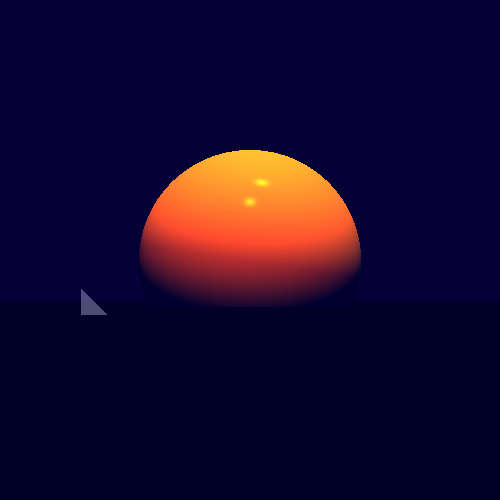
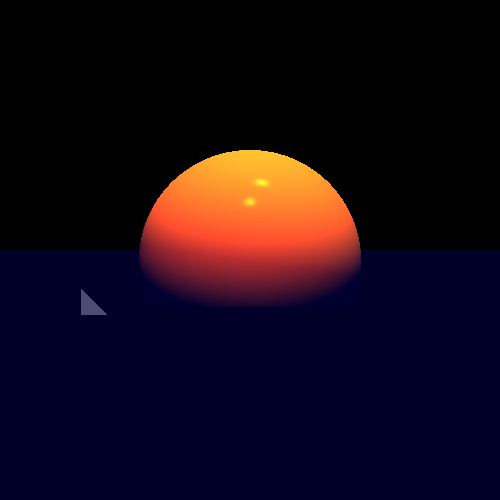
sunset

diff --git a/src/unittests/miniProject1.java b/src/unittests/miniProject1.java
@@ -18,7 +18,11 @@ import scene.Scene;
 import static java.awt.Color.*;
 
 public class miniProject1 {
-
+    /**
+     * this test is part of seventh level.
+     * The stage focuses on our attempt to create a scene from ourselves
+     * We tried to create a sunset scene
+     */
     @Test
     public void test()
     {
@@ -28,65 +32,34 @@ public class miniProject1 {
                 .setVPSize(150, 150) //
                 .setVPDistance(1000);
 
-
-        //creating the sunset
-        //SUN
+        //creating a sunset scene
+        //adding a sphere= SUN
         scene1.geometries.add(
-        new Sphere(new Point(0,-4,-200),40).setEmission(new Color(0,0,47)).setMaterial(new Material().setKd(0.5).setKs(0.5).setnShininess(300).setKt(new Double3(0)).setKr(new Double3(0))));
-
-        //SKY
-        Plane plane2 = new Plane(new Point(0, 0, -300), new Vector(0, 0, 1));
-        Plane plane=new Plane(new Point(0, -20, 0), new Vector(0, -40, 0));
-        scene1.geometries.add(plane.setEmission(new Color(0,0,40)));
-        //.setMaterial(new Material() .setKd(1.5).setKs(1.5).setnShininess(300).setKt(new Double3(0)).setKr(new Double3(0))));
-        //SEA
-       scene1.geometries.add(plane2.setEmission( new Color(5,0,54)).setMaterial(new Material().setKt(new Double3(0)) .setKr( new Double3(0))));
-        //SHARK
-        Triangle shark=new Triangle(new Point(-52, -32, -28), new Point(-32, -32, -28), new Point(-52, -12, -28));
-        scene1.geometries.add(shark.setEmission( new Color(76,76,76)).setMaterial(new Material().setKt(new Double3(1)) .setKr( new Double3(0))));
-
+                new Sphere(new Point(0,-4,-200),40)//SUN
+                        .setEmission(new Color(0,0,47))
+                        .setMaterial(new Material().setKd(0.5).setKs(0.5).setnShininess(300).setKt(new Double3(0)).setKr(new Double3(0))),
+                new Plane(new Point(0, -20, 0), new Vector(0, -40, 0))//SEA
+                        .setEmission(new Color(0,0,40)),
+                new Plane(new Point(0, 0, -300), new Vector(0, 0, 1))//SKY
+                        .setEmission( new Color(5,0,54))
+                        .setMaterial(new Material().setKt(new Double3(0)) .setKr( new Double3(0))),
+                new Triangle(new Point(-52, -32, -28), new Point(-32, -32, -28), new Point(-52, -12, -28))//SHARK
+                        .setEmission( new Color(76,76,76))
+                        .setMaterial(new Material().setKt(new Double3(1)) .setKr( new Double3(0)))
+                );
 
         //light additions
         scene1.getLights().add(new DirectionalLight(new Color(300,200,0), new Vector(-0.3,-2,0)));
-        //scene1.getLights().add(new DirectionalLight(new Color(400,200,250), new Vector(0,-2,0)));
         scene1.getLights().add(new DirectionalLight(new Color(800,200,0), new Vector(0,-2,-1)));
         scene1.getLights().add(new SpotLight(new Color(800, 200, 0), new Point(0, 40, 100), new Vector(0, 1, 4))
                 .setkL(0.0004).setkQ(0.0000006));
 
         //creating the picture
-        ImageWriter imageWriter = new ImageWriter("trytopro", 500, 500);
+        ImageWriter imageWriter = new ImageWriter("sunsetTest", 500, 500);
         camera1.setImageWriter(imageWriter) //
                 .setRayTracer(new RayTracerBasic(scene1)) //
                 .renderImage(); //
         camera1.writeToImage(); //
     }
 }
-
-        //        Scene scene1 = new Scene.SceneBuilder("Test scene").build();
-//        Camera camera1 = new Camera(new Point(0, 0, 1000), new Vector(0, 0, -1), new Vector(0, 1, 0)) //
-//                .setVPSize(150, 150) //
-//                .setVPDistance(1000);
-//
-//
-//        //creating the sunset
-//        //SUN
-//        scene1.geometries.add(
-//        new Sphere(new Point(0,0,-250),40).setEmission(new Color(BLACK)).setMaterial(new Material().setKd(0.5).setKs(0.5).setnShininess(300).setKt(new Double3(0.5)).setKr(new Double3(0))));
-//
-//        //SKY
-//        Plane plane = new Plane(new Point(0, 0, -300), new Vector(0, 0, 1));
-//        scene1.geometries.add(plane.setEmission(new Color(163,62,0)).setMaterial(new Material() .setKd(0.5).setKs(0.5).setnShininess(2000).setKt(new Double3(0)).setKr(new Double3(0))));
-//        //SEA
-//        Plane plane2=new Plane(new Point(0, -20, 0), new Vector(0, -40, 0));
-//        scene1.geometries.add(plane2.setEmission( new Color(BLUE)).setMaterial(new Material() .setKr( new Double3(1))));
-//        scene1.getLights().add( //
-//                new SpotLight(new Color(800, 200, 0), new Point(40, 40, 115), new Vector(1, -1, -4)) //
-//                        .setkL(4E-4).setkQ(2E-5));
-//        scene1.getLights().add(new PointLight(new Color(800,400,250)/*,new Point(0,-20,70)*/,new Vector(0,-1,0)));
-//
-//        ImageWriter imageWriter = new ImageWriter("trytopro", 500, 500);
-//        camera1.setImageWriter(imageWriter) //
-//                .setRayTracer(new RayTracerBasic(scene1)) //
-//                .renderImage(); //
-//        camera1.writeToImage(); //
 
